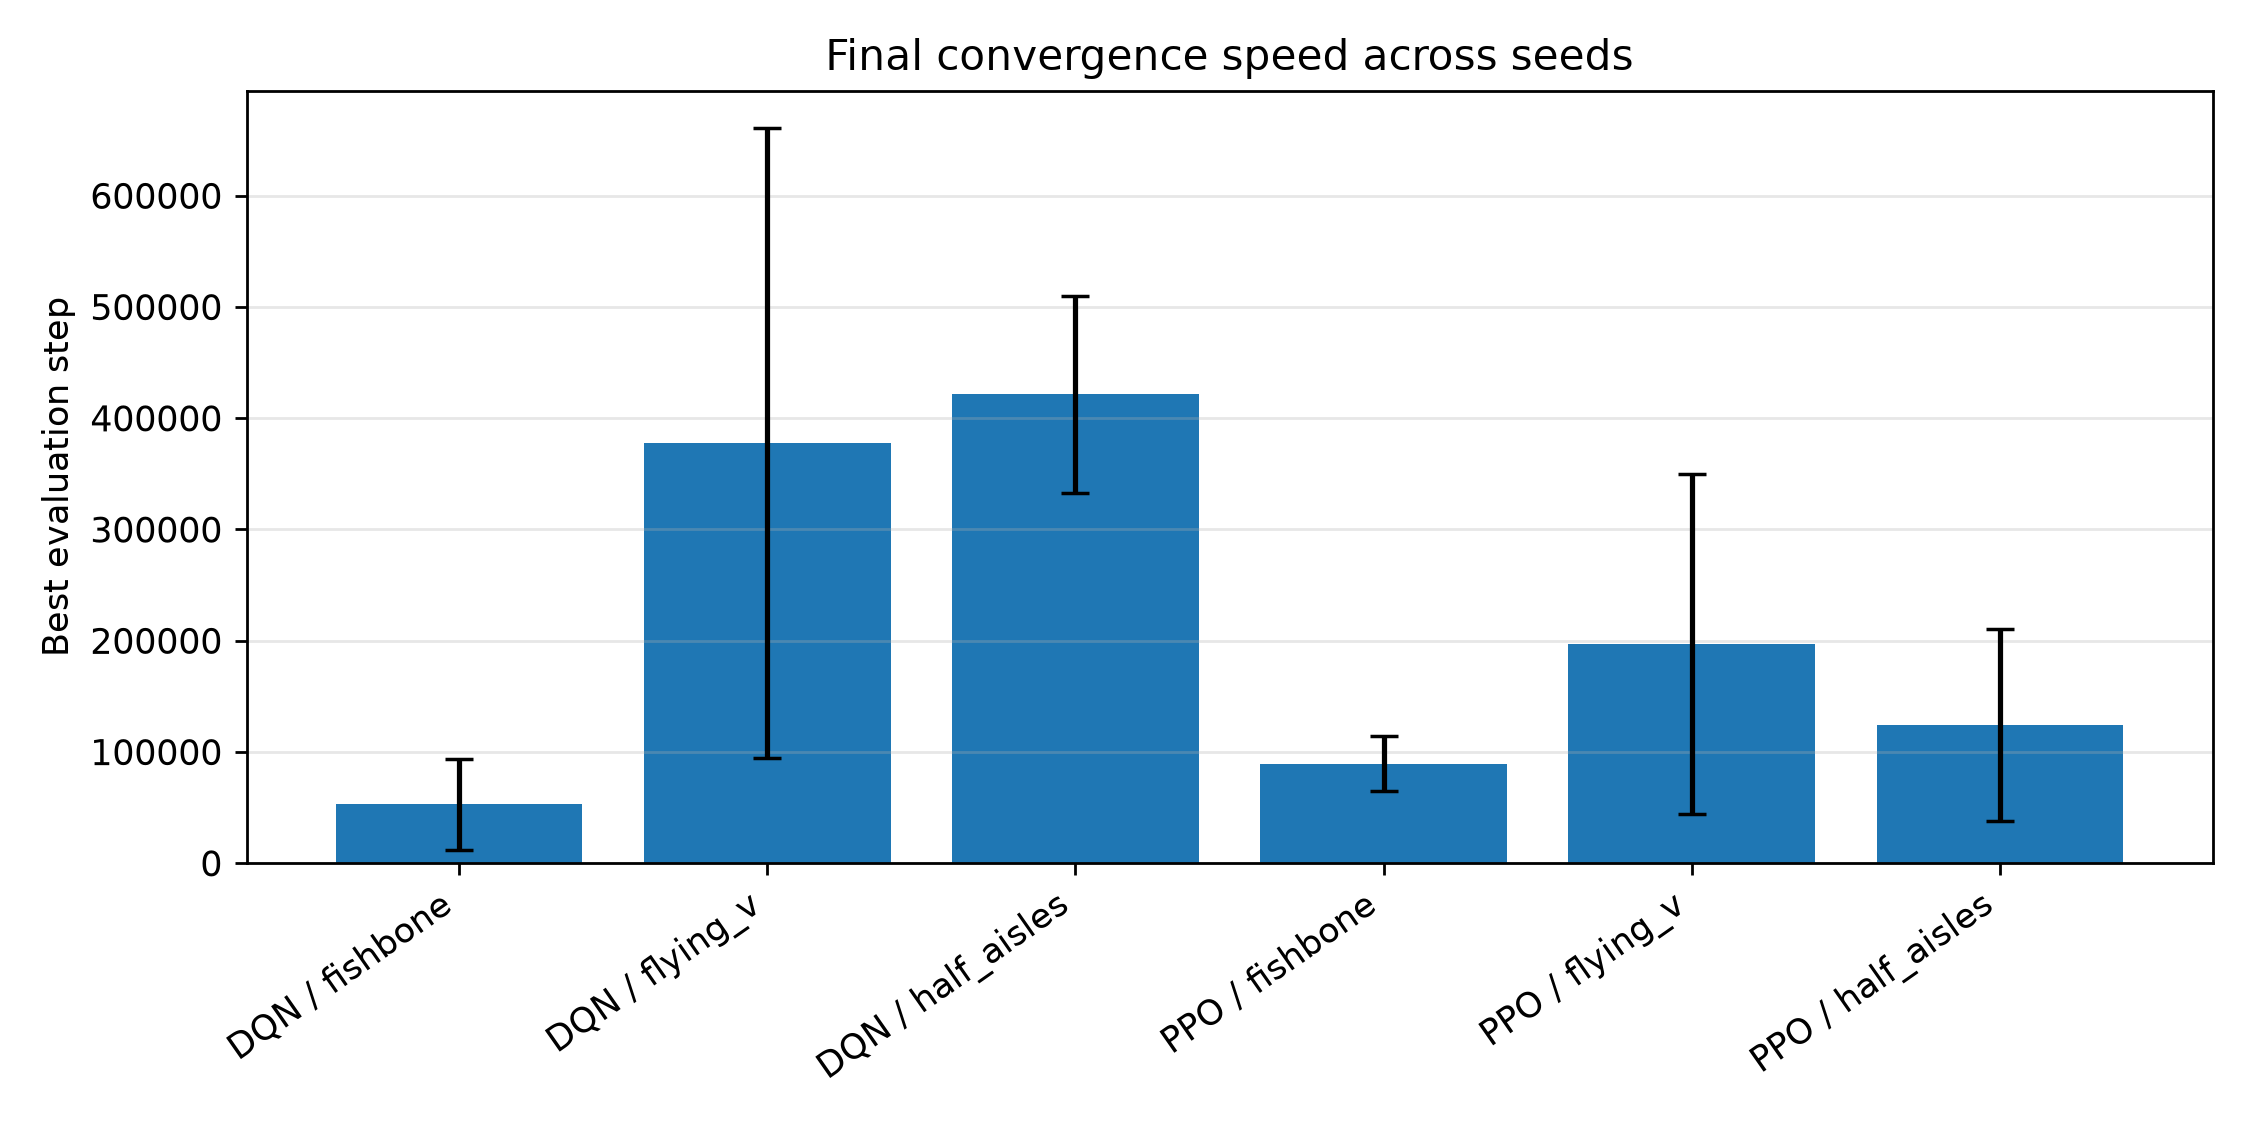
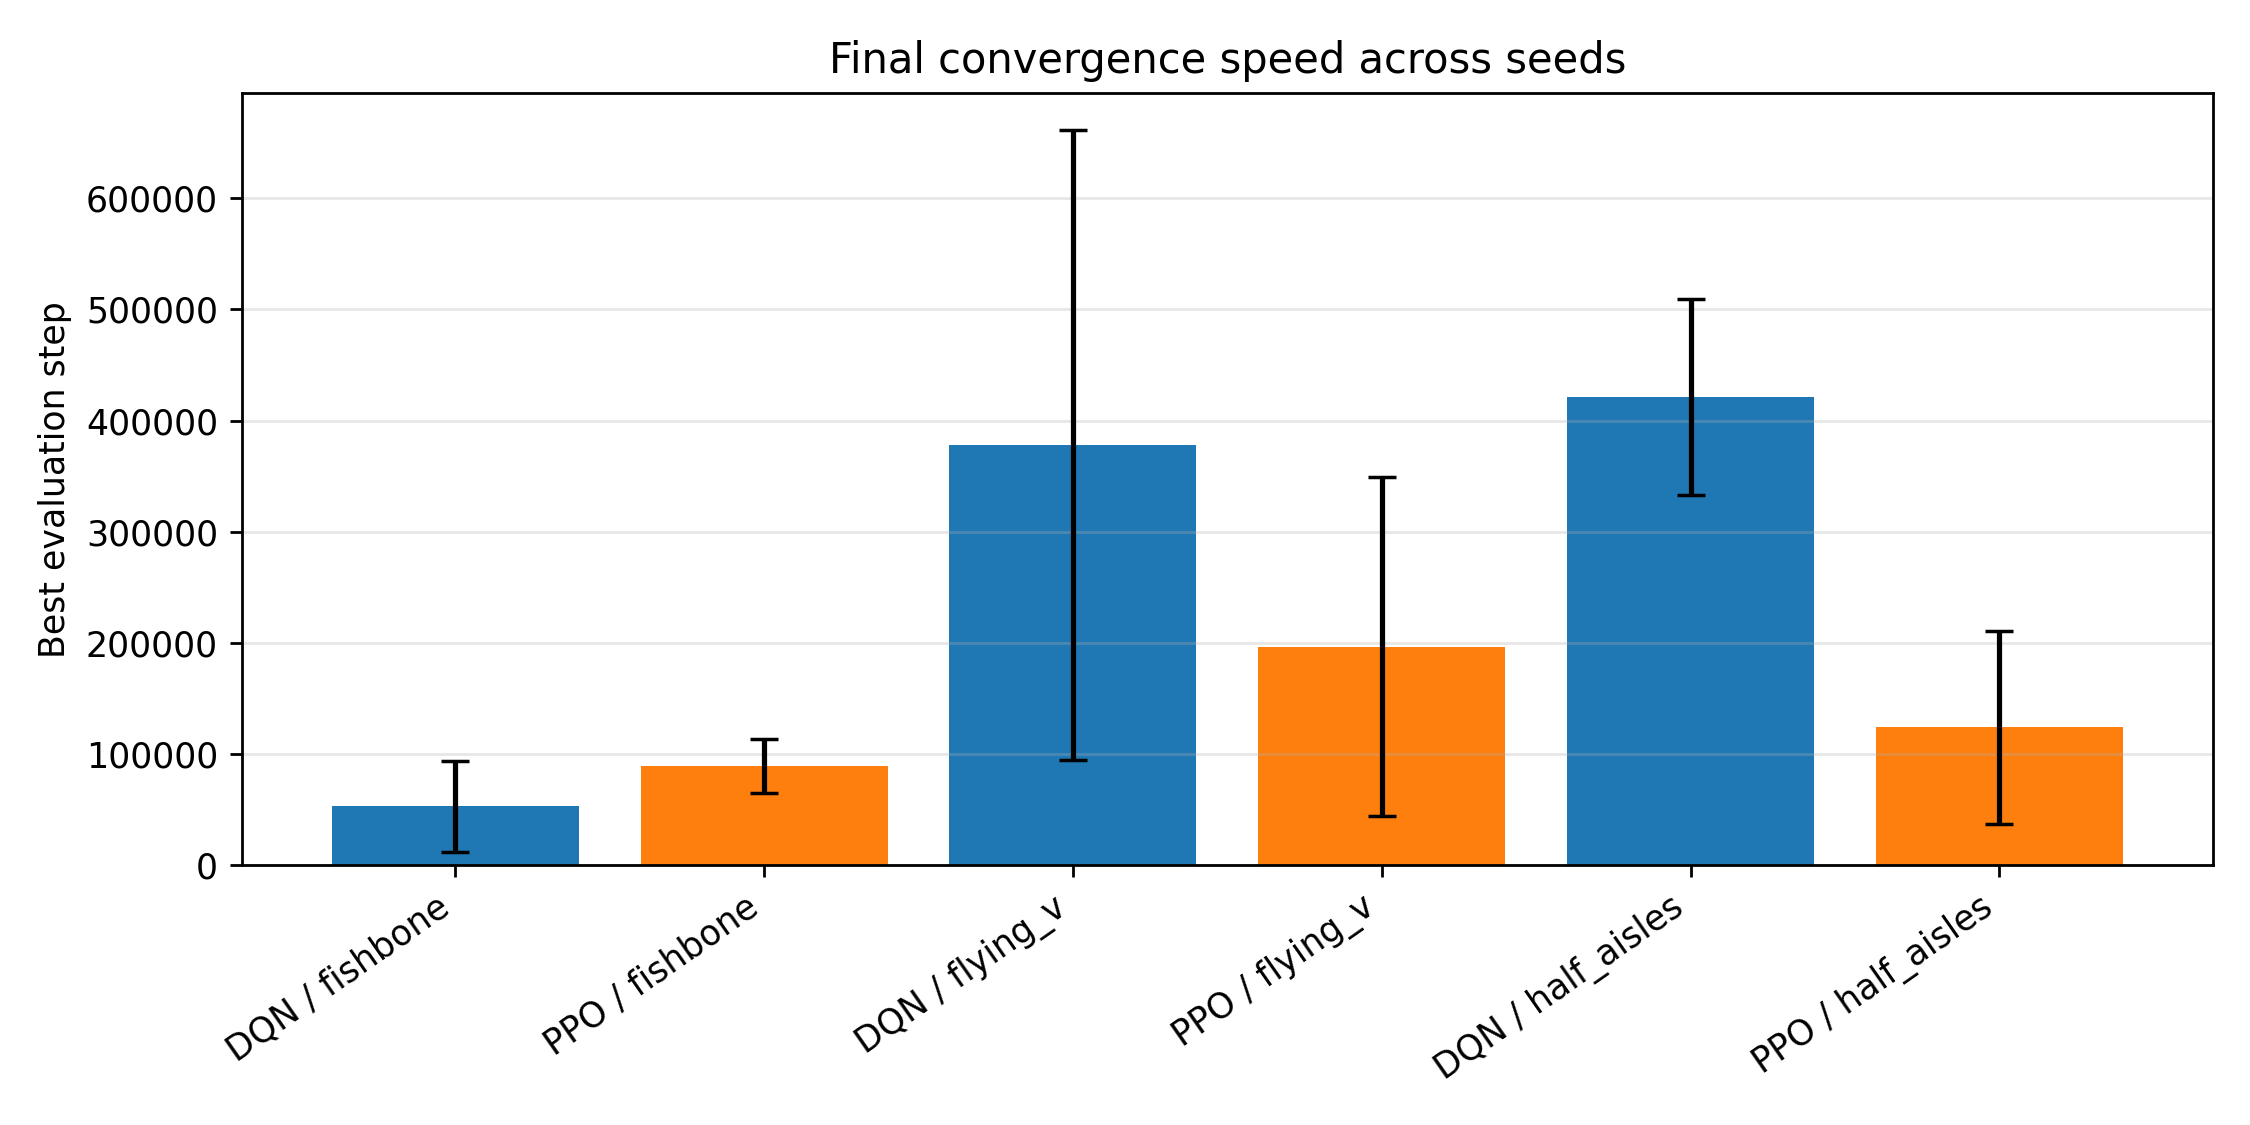
New plots

diff --git a/analysis_report.py b/analysis_report.py
@@ -4,6 +4,7 @@ import pandas as pd
 import matplotlib
 matplotlib.use("Agg")
 import matplotlib.pyplot as plt
+import numpy as np
 
 
 def make_dirs(output_dir):
@@ -65,9 +66,9 @@ def final_seed_summary(final_df):
     )
 
 
-def bar_plot(df, x, y, title, ylabel, output_path, yerr=None, ylim=None):
+def bar_plot(df, x, y, title, ylabel, output_path, yerr=None, ylim=None, colors=None):
     plt.figure(figsize=(9, 4.5))
-    plt.bar(df[x], df[y], yerr=yerr, capsize=4 if yerr is not None else 0)
+    plt.bar(df[x], df[y], yerr=yerr, capsize=4 if yerr is not None else 0, color=colors)
     plt.title(title)
     plt.ylabel(ylabel)
     if ylim is not None:
@@ -79,10 +80,23 @@ def bar_plot(df, x, y, title, ylabel, output_path, yerr=None, ylim=None):
     plt.close()
 
 
-def grouped_bar(summary, metric, std_metric, title, ylabel, output_path, ylim=None):
+def grouped_bar(summary, metric, std_metric, title, ylabel, output_path, ylim=None, bounded=False):
     df = add_label(summary)
-    yerr = df[std_metric].values if std_metric in df.columns else None
-    bar_plot(df, "label", metric, title, ylabel, output_path, yerr=yerr, ylim=ylim)
+    df = df.sort_values(["grid", "agent"]).reset_index(drop=True)
+
+    colors = df["agent"].map({"dqn": "#1f77b4", "ppo": "#ff7f0e"}).values
+
+    if std_metric in df.columns:
+        if bounded:
+            lower = np.minimum(df[std_metric].values, df[metric].values)
+            upper = np.minimum(df[std_metric].values, 1 - df[metric].values)
+            yerr = np.vstack([lower, upper])
+        else:
+            yerr = df[std_metric].values
+    else:
+        yerr = None
+
+    bar_plot(df, "label", metric, title, ylabel, output_path, yerr=yerr, ylim=ylim, colors=colors)
 
 
 def save_latex_table(df, path, caption, label):
@@ -99,6 +113,7 @@ def plot_final_results(final_summary, plots_dir):
         "Success rate",
         plots_dir / "final_success_rate_mean_std.png",
         ylim=(0, 1.05),
+        bounded=True,
     )
 
     grouped_bar(
@@ -172,31 +187,42 @@ def plot_combined_sensitivity_by_agent(sweep_df, plots_dir):
 
     for agent in sweep_df["agent"].unique():
 
-        plt.figure(figsize=(12, 5))
+        agent_df = sweep_df[sweep_df["agent"] == agent].copy()
+        agent_df["param_label"] = (
+                agent_df["swept_param"].astype(str)
+                + "="
+                + agent_df["swept_value"].astype(str)
+        )
 
-        agent_df = sweep_df[sweep_df["agent"] == agent]
+        param_labels = agent_df["param_label"].drop_duplicates().tolist()
+        grids = agent_df["grid"].unique()
 
-        for grid in agent_df["grid"].unique():
+        n_groups = len(param_labels)
+        n_bars = len(grids)
+        bar_width = 0.5 / n_bars
+        x = np.arange(n_groups)
+
+        plt.figure(figsize=(max(12, n_groups * 0.6), 5))
+
+        for i, grid in enumerate(grids):
 
             grid_df = agent_df[agent_df["grid"] == grid].copy()
+            grid_df = grid_df.set_index("param_label").reindex(param_labels)
 
-            grid_df["param_label"] = (
-                grid_df["swept_param"].astype(str)
-                + "="
-                + grid_df["swept_value"].astype(str)
-            )
+            # So you can actually see the 0 values
+            plot_values  = grid_df["eval_success_rate"].clip(lower=0.01)
 
-            plt.plot(
-                range(len(grid_df)),
-                grid_df["eval_success_rate"],
-                marker="o",
-                linewidth=2,
+            offset = (i - (n_bars - 1) / 2) * bar_width
+            plt.bar(
+                x + offset,
+                plot_values,
+                width=bar_width,
                 label=grid.replace("_", "-")
             )
 
         plt.xticks(
-            range(len(grid_df)),
-            grid_df["param_label"],
+            x,
+            param_labels,
             rotation=45,
             ha="right"
         )
@@ -208,7 +234,7 @@ def plot_combined_sensitivity_by_agent(sweep_df, plots_dir):
         )
 
         plt.ylim(0, 1.05)
-        plt.grid(alpha=0.3)
+        plt.grid(alpha=0.3, axis="y")
         plt.legend()
         plt.tight_layout()
 
